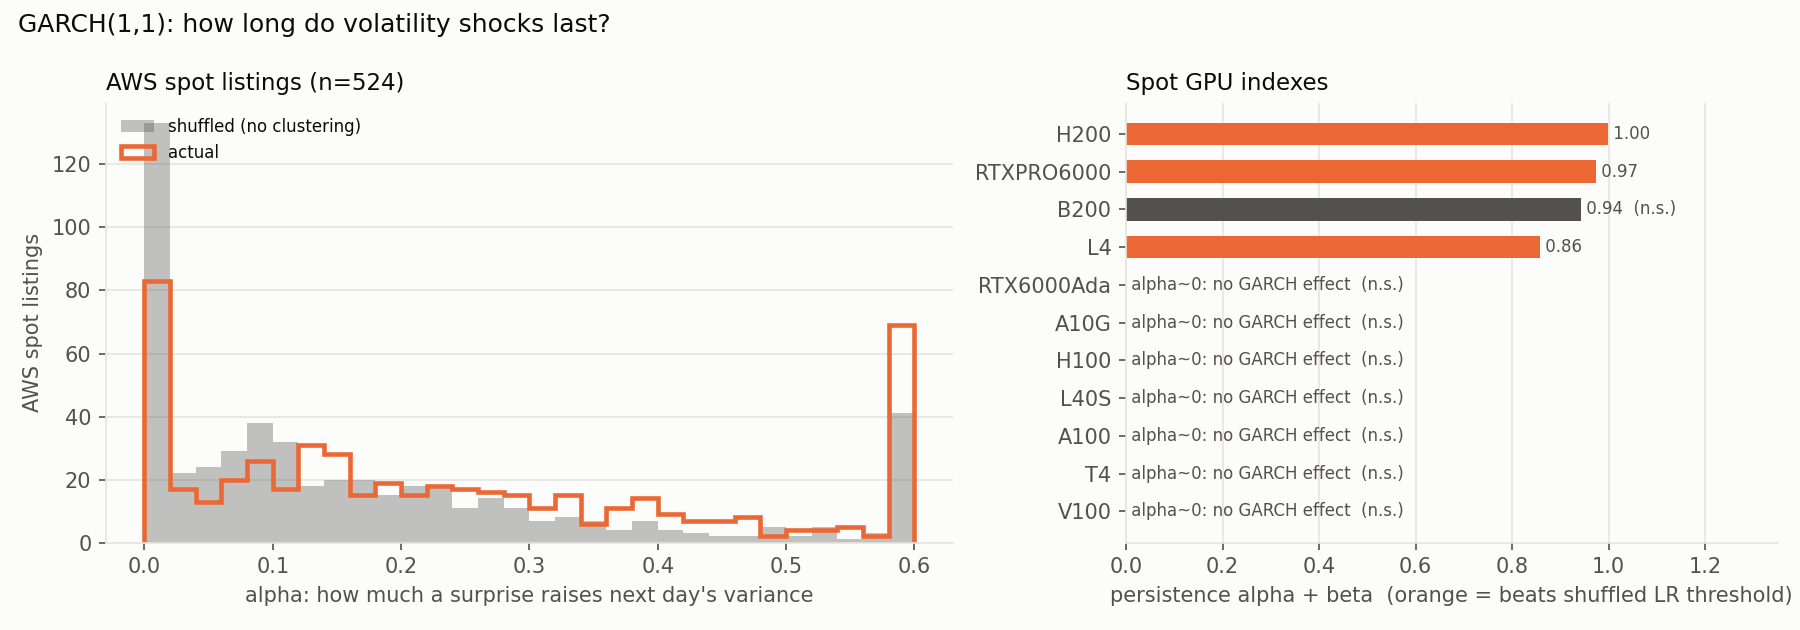
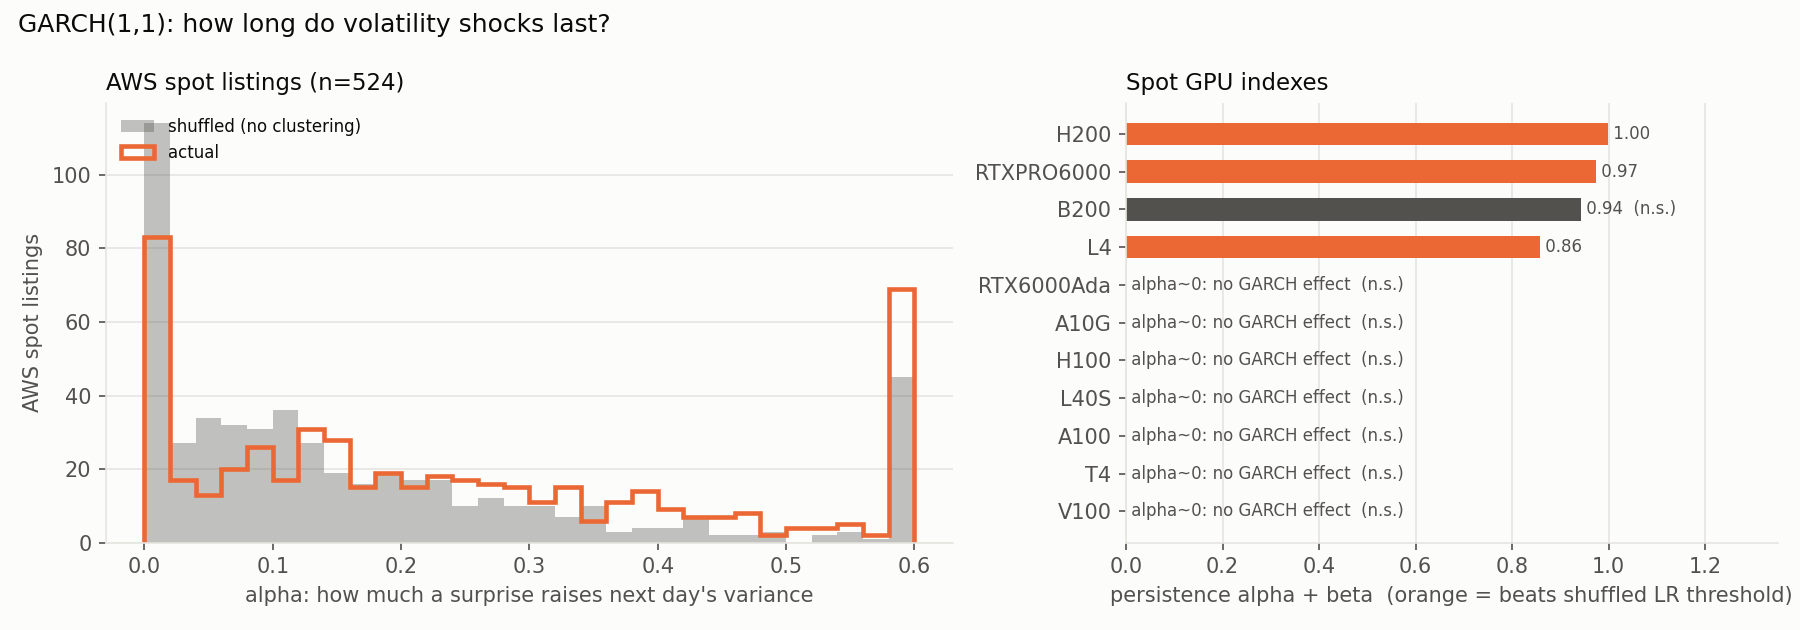
Key return cache on loading code; give GARCH null held-out shuffles
- common: the daily-return cache is invalidated when load_raw, pick_daily,
  _load_raw_returns, KEY or SAMPLE_HOUR_UTC change (rebuilt grid identical)
- garch: "(shuffled)" rows come from an independent set of shuffles scored
  against the calibrated threshold, instead of the calibration fits (which
  gave 5% by construction); index threshold now uses 100 shuffles, since 20
  let ~12% of held-out shuffled fits through
- audit: check H samples the 09:00-closest snapshot like the analyses
- README: restore the one-line GARCH result

diff --git a/garch.py b/garch.py
@@ -19,8 +19,9 @@ Tests:
     occasional jumps, far from Gaussian. So the threshold is calibrated instead: refit after
     shuffling each series within weekday x 30-day blocks (keeps weekly schedules and slow regime
     shifts, destroys short-horizon timing), and call a series significant if its LR beats
-    the shuffled 95th percentile (per series, 20 shuffles, for the indexes; pooled over listings,
-    1 shuffle each, for AWS).
+    the shuffled 95th percentile (per series, 100 shuffles, for the indexes; pooled over listings,
+    1 shuffle each, for AWS). The "(shuffled)" rows use a second, independent set of shuffles
+    scored against that threshold, so their significant share is a real check on the 5% rate.
   * Persistence alpha + beta only means something when alpha > 0: with alpha = 0 the variance is
     constant and beta is not identified. Persistence and half-life are reported for alpha >= 0.01.
 """
@@ -88,27 +89,39 @@ def fit_garch(e):
 ALPHA_MIN = 0.01
 
 
-def fit_all(E, label, reps=1):
-    """Fit every column, plus `reps` shuffled refits per column for the calibrated LR threshold."""
-    rows, null_rows = {}, []
+def shuffled_fits(X, index, columns, reps):
+    """`reps` blocked-shuffle refits per column, as a DataFrame indexed by series."""
+    rows = []
+    for _ in range(reps):
+        S = shuffle_cols_blocked(X, rng, index)
+        for j, col in enumerate(columns):
+            rn = fit_garch(S[:, j])
+            if rn is not None:
+                rows.append({"series": col, **rn})
+    return pd.DataFrame(rows).set_index("series").astype(float)
+
+
+def fit_all(E, label, reps=1, held_out=None):
+    """Fit every column, plus `reps` shuffled refits per column for the calibrated LR threshold.
+
+    The "(shuffled)" summary row comes from a separate set of `held_out` shuffled refits (default:
+    as many as `reps`), tested against that threshold. Scoring the calibration fits against their
+    own 95th percentile would give 5% by construction; held-out fits check that the threshold
+    really holds a 5% false-positive rate."""
+    rows = {}
     X = E.to_numpy()
     for j, col in enumerate(E.columns):
         r = fit_garch(X[:, j])
         if r is not None:
             rows[col] = r
-    for k in range(reps):
-        S = shuffle_cols_blocked(X, rng, E.index)
-        for j, col in enumerate(E.columns):
-            rn = fit_garch(S[:, j])
-            if rn is not None:
-                null_rows.append({"series": col, **rn})
     res = pd.DataFrame(rows).T.astype(float)
-    null = pd.DataFrame(null_rows).set_index("series").astype(float)
+    calib = shuffled_fits(X, E.index, E.columns, reps)
+    null = shuffled_fits(X, E.index, E.columns, reps if held_out is None else held_out)
     if reps > 1:   # per-series threshold
-        res["lr_crit"] = null.groupby(level=0).lr_stat.quantile(0.95)
+        res["lr_crit"] = calib.groupby(level=0).lr_stat.quantile(0.95)
         null["sig_calibrated"] = null.lr_stat > res.lr_crit.reindex(null.index).to_numpy()
     else:          # pooled threshold across series
-        res["lr_crit"] = null.lr_stat.quantile(0.95)
+        res["lr_crit"] = calib.lr_stat.quantile(0.95)
         null["sig_calibrated"] = null.lr_stat > res.lr_crit.iloc[0]
     res["sig_calibrated"] = res.lr_stat > res.lr_crit
     for d in (res, null):
@@ -133,7 +146,9 @@ aws_res, aws_null, aws_sum = fit_all(E_aws, "AWS spot listings")
 aws_res.join(meta).round(4).to_csv(os.path.join(OUT, "garch_aws_spot_series.csv"))
 
 E_idx, _ = ar_filter(spot_chained_indexes(R, meta))
-idx_res, idx_null, idx_sum = fit_all(E_idx, "spot GPU indexes", reps=20)
+# 100 shuffles per index: a per-series 95th percentile from only 20 shuffles let ~12% of held-out
+# shuffled fits through, not 5%.
+idx_res, idx_null, idx_sum = fit_all(E_idx, "spot GPU indexes", reps=100)
 idx_res.round(4).sort_values("persistence", ascending=False).to_csv(os.path.join(OUT, "garch_spot_index_series.csv"))
 
 summary = pd.concat([aws_sum, idx_sum])

diff --git a/audit.py b/audit.py
@@ -24,7 +24,7 @@ import numpy as np
 import pandas as pd
 from scipy.stats import chi2_contingency
 
-from common import EPS, KEY, OUT, SAMPLE_HOUR_UTC, STALE_WINDOWS, load_raw, load_returns
+from common import EPS, KEY, OUT, SAMPLE_HOUR_UTC, STALE_WINDOWS, load_raw, load_returns, pick_daily
 
 pd.set_option("display.width", 220, "display.max_columns", 30, "display.max_rows", 200)
 
@@ -170,7 +170,9 @@ report["G"] = save("duplicate_series", dup.sort_values("duplication_factor", asc
 
 # ------------------------------------------------------------------ H. spot pegged to on-demand
 pair_key = [k for k in KEY if k != "is_spot"]
-d = raw.groupby(pair_key + ["day", "is_spot"], dropna=False).price_per_hour.last().unstack("is_spot").dropna()
+# Same daily sampling as the analyses: the snapshot closest to SAMPLE_HOUR_UTC per listing-day.
+d = (pick_daily(raw, KEY).set_index(pair_key + ["day", "is_spot"]).price_per_hour
+     .unstack("is_spot").dropna())
 d.columns = ["od", "spot"]
 d["ratio"] = (d.spot / d.od).round(4)
 pr = d.groupby(pair_key, dropna=False).ratio.agg(["nunique", "size", "median"]).reset_index()

diff --git a/common.py b/common.py
@@ -1,6 +1,8 @@
 """Shared helpers: chart style, raw loading with daily sampling, data-hygiene fixes, cleaned daily
 return grid, AR filter, fast within-series shuffle."""
 import glob
+import hashlib
+import inspect
 import os
 
 import matplotlib
@@ -190,9 +192,17 @@ def dedupe_paths(R):
     return R.loc[:, ~(sig.duplicated().to_numpy() & moves)]
 
 
+def _code_fingerprint():
+    """Hash of everything that shapes the cached raw return grid: the loading/sampling code and
+    its settings. Editing a filter in load_raw, KEY or the sampling hour invalidates the cache."""
+    parts = [inspect.getsource(f) for f in (load_raw, pick_daily, _load_raw_returns)]
+    parts += [repr(KEY), repr(SAMPLE_HOUR_UTC)]
+    return hashlib.sha256("\n".join(parts).encode()).hexdigest()
+
+
 def _load_raw_returns():
     _ensure_src()
-    sig = (os.path.getmtime(SRC), os.path.getsize(SRC), SAMPLE_HOUR_UTC)
+    sig = (os.path.getmtime(SRC), os.path.getsize(SRC), _code_fingerprint())
     if os.path.exists(CACHE):
         cached = pd.read_pickle(CACHE)
         if len(cached) == 4 and cached[3] == sig:

diff --git a/README.md b/README.md
@@ -44,6 +44,8 @@ the on-demand cap (spot never goes above it): without those days it's 24% agains
 Move sizes cluster too. With momentum removed, consecutive move sizes correlate at 0.17, against
 0.00 when shuffled. Shuffling within each month still gives 0.11, so most of it is calm and busy
 stretches lasting weeks. A third of listings beat their own within-month shuffle (5% expected).
+GARCH(1,1) finds little: 8% of listings beat a calibrated threshold, against 5% on shuffled data.
+It's a poor fit for mostly tiny moves with the odd jump.
 
 ## Other providers
 
